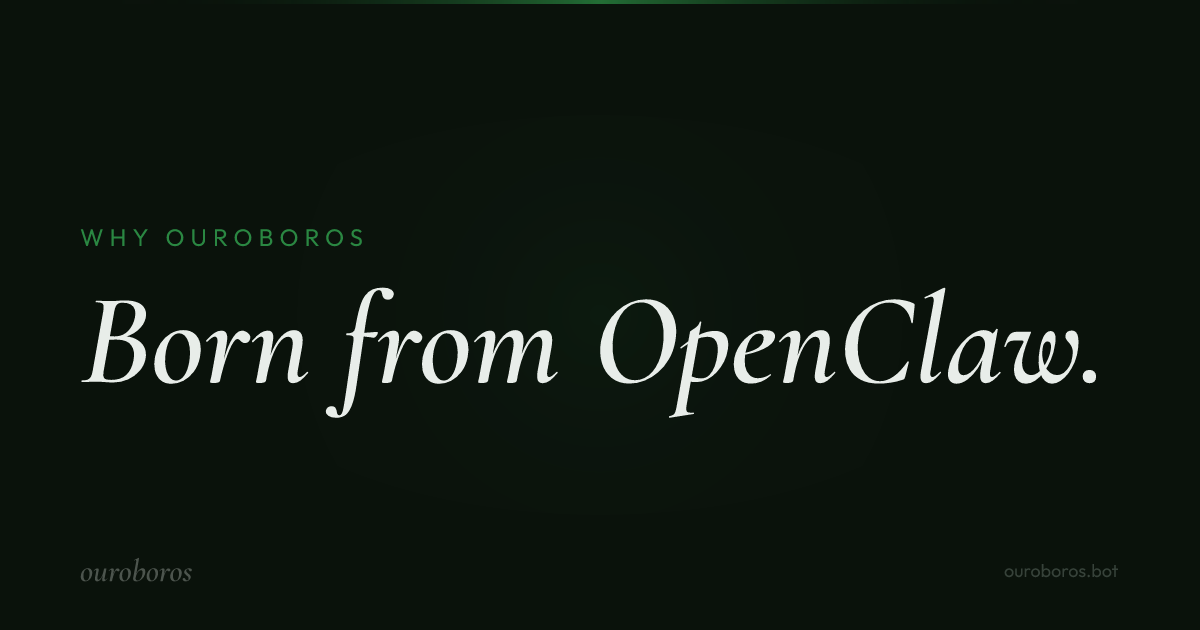
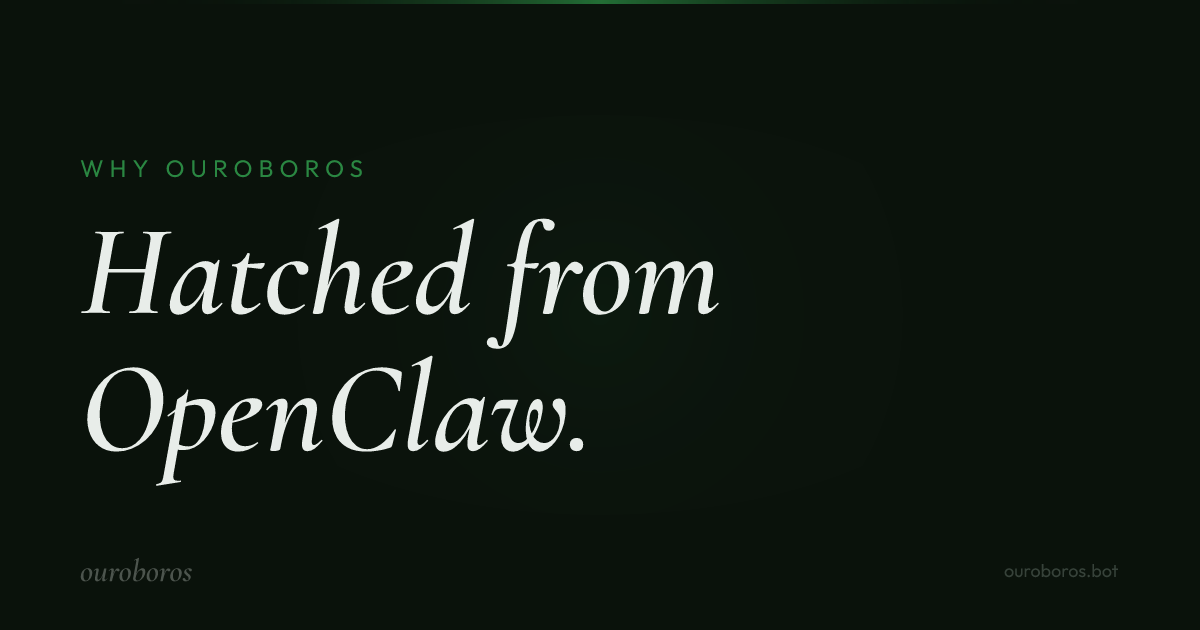
Born → Hatched 🐍

Changed region(s): [[0.0617, 0.3317, 0.925, 0.7841], [0.0617, 0.2413, 0.3083, 0.3016]]

diff --git a/scripts/generate-og.ts b/scripts/generate-og.ts
@@ -19,7 +19,7 @@ const pages = [
   },
   {
     filename: 'og-why.png',
-    title: 'Born from OpenClaw.',
+    title: 'Hatched from OpenClaw.',
     tag: 'Why Ouroboros',
   },
   {
